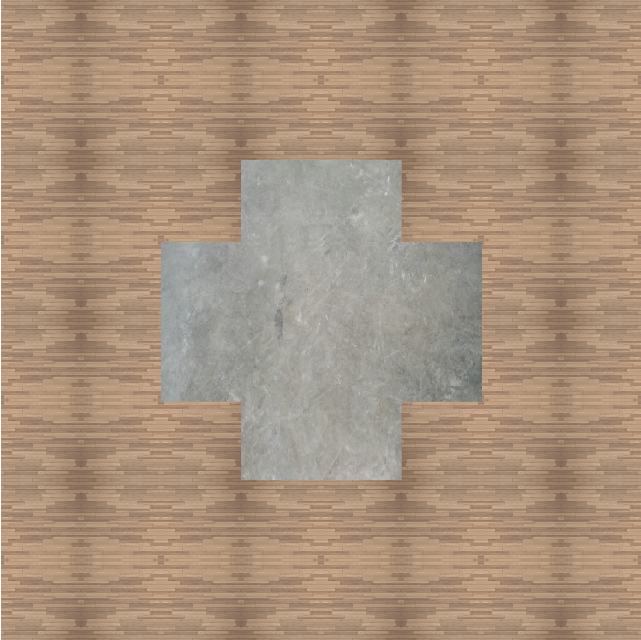
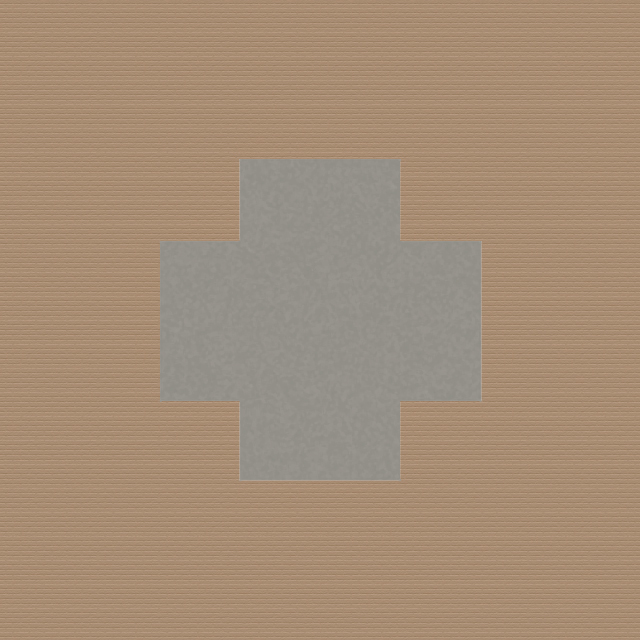
HUD en Map update

Changed region(s): [[0.0, 0.0, 1.0, 1.0], [0.5625, 0.5938, 0.5938, 0.625], [0.4062, 0.5625, 0.4375, 0.5938]]

diff --git a/views/style.css b/views/style.css
@@ -17,7 +17,6 @@
     background-repeat: no-repeat; /* Do not repeat the image */
     background-size: cover;
     font-family: Arial, Helvetica, sans-serif;
-   
     }
     #form { background: #000; 
     width: 260px; 
@@ -44,12 +43,11 @@
     margin: 0; 
     padding: 0; 
     }
-    #canvas {
-        background-image: url('images/map.jpg');
-        background-position: center; /* Center the image */
-        background-repeat: no-repeat; /* Do not repeat the image */
-        background-size: cover;
-        width: 640px;
+    #canvas {background-image: url('images/map.jpg');
+    background-position: center; /* Center the image */
+    background-repeat: no-repeat; /* Do not repeat the image */
+    background-size: cover;
+    width: 640px;
     height: 640px;
     }
     #content {width: 100%; 
@@ -90,6 +88,46 @@
     background-repeat: no-repeat; /* Do not repeat the image */
     background-size: cover;
     }
+    #handgun {width: 30px;
+    margin-bottom: 10px; 
+    height: 80px;
+    float: left;
+    text-align: center;           
+    background-image: url('images/handgun.svg');
+    background-position: center; /* Center the image */
+    background-repeat: no-repeat; /* Do not repeat the image */
+    background-size: cover;
+    }
+    #sniper {width: 30px;
+    margin-bottom: 10px; 
+    height: 80px;
+    float: left;
+    text-align: center;           
+    background-image: url('images/sniper.svg');
+    background-position: center; /* Center the image */
+    background-repeat: no-repeat; /* Do not repeat the image */
+    background-size: cover;
+    }
+    #rifle {width: 30px;
+    margin-bottom: 10px; 
+    height: 80px;
+    float: left;
+    text-align: center;           
+    background-image: url('images/rifle.svg');
+    background-position: center; /* Center the image */
+    background-repeat: no-repeat; /* Do not repeat the image */
+    background-size: cover;
+    }   
+    #minigun {width: 30px;
+    margin-bottom: 10px; 
+    height: 80px;
+    float: left;
+    text-align: center;           
+    background-image: url('images/minigun.svg');
+    background-position: center; /* Center the image */
+    background-repeat: no-repeat; /* Do not repeat the image */
+    background-size: cover;
+    }
     #wrapper {display: inline-block; 
     margin-top:10px; 
     }
@@ -107,15 +145,15 @@
     text-align: center;            
     }
     #logo {width: 600px;
-        margin-top: -50px;
-        margin-left: 20px;
-        margin-right: 20px;
-        margin-bottom: 20px;
-        height: 180px;
-        float: left;
-        text-align: center;            
-        background-image: url('images/Logo.svg');
-        background-position: center; /* Center the image */
-        background-repeat: no-repeat; /* Do not repeat the image */
-        background-size: cover;
-        }
+    margin-top: -50px;
+    margin-left: 20px;
+    margin-right: 20px;
+    margin-bottom: 20px;
+    height: 180px;
+    float: left;
+    text-align: center;            
+    background-image: url('images/Logo.svg');
+    background-position: center; /* Center the image */
+    background-repeat: no-repeat; /* Do not repeat the image */
+    background-size: cover;
+    }

diff --git a/static/HUD.js b/static/HUD.js
@@ -35,6 +35,7 @@ socket.on('playerteam', function(player){
             var innerDiv = document.createElement('div');
             innerDiv.id = 'bullet';
             iDiv.appendChild(innerDiv);
+            
         }
         eenmaalUitvoeren = true;
     }
